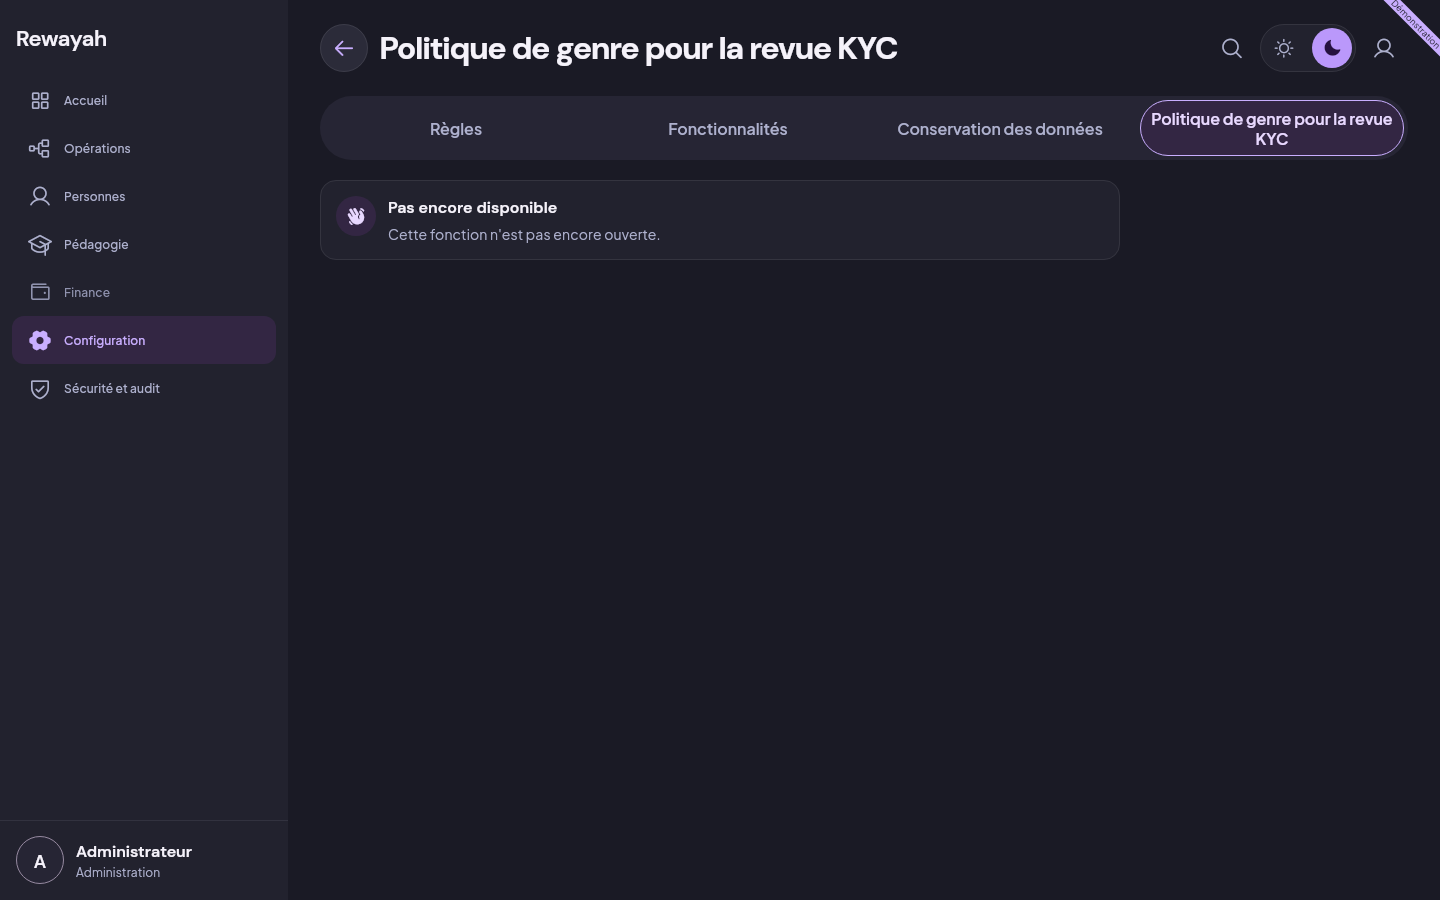
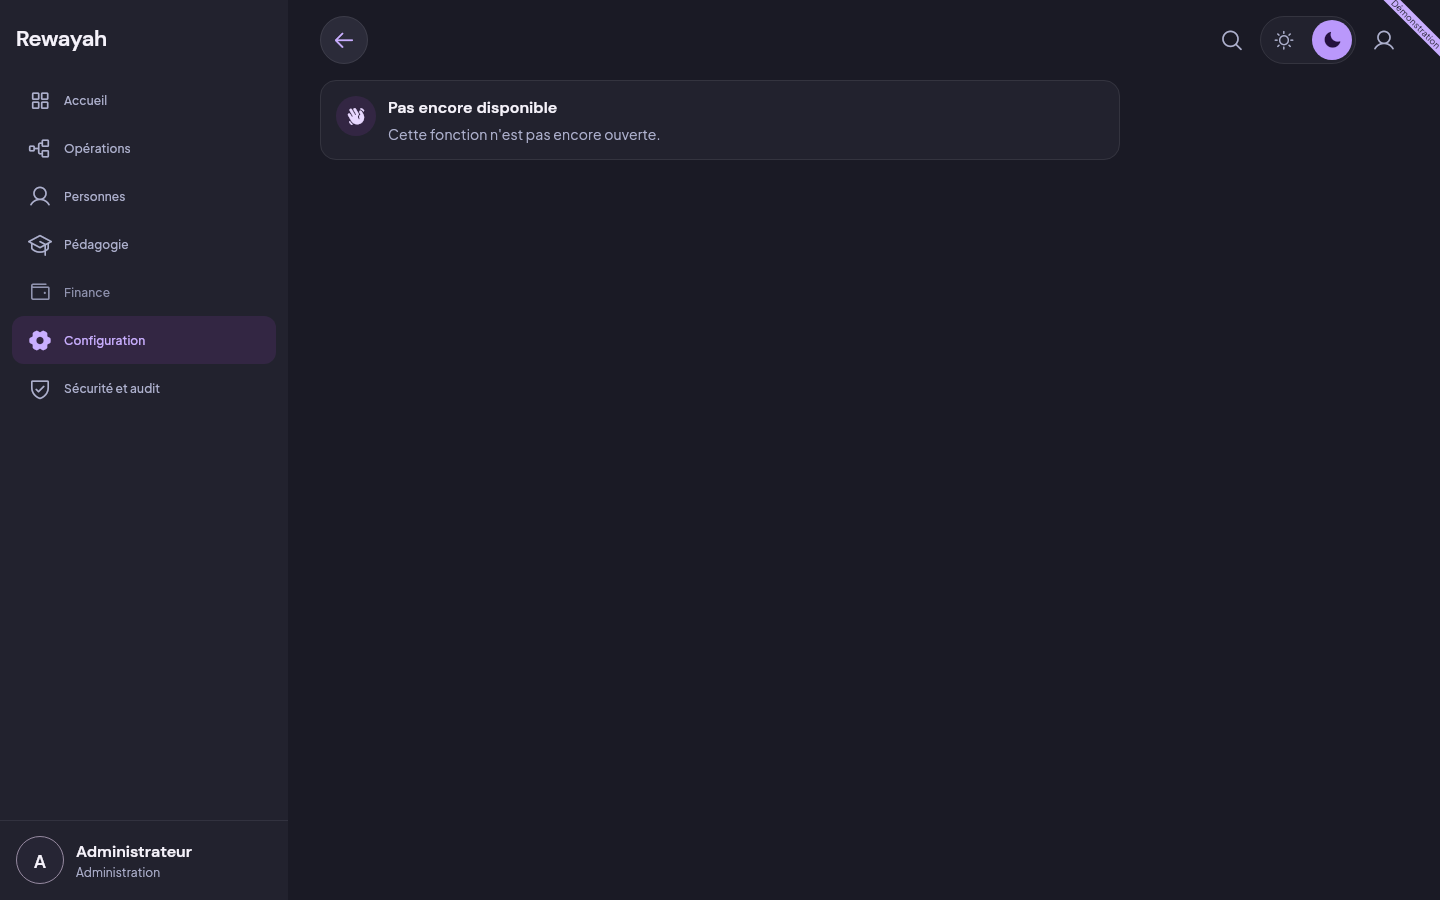
AD-M2-CAPT : 96 captures HL-A-5 refaites (ecran 3 distinct de la fiche, portail apres refus, ecran 16 sans repere), 6 captures de la revue en production, ad9_14 a 1440 ; notes de recette
Claude-Session: https://claude.ai/code/session_01B8we8bPK1a6aYoBmRntpd8

Changed region(s): [[0.2188, 0.0311, 0.625, 0.1556], [0.625, 0.0, 1.0, 0.1867], [0.2188, 0.2178, 0.4688, 0.28]]

diff --git a/test/capture/ad_m2_production_capture_test.dart b/test/capture/ad_m2_production_capture_test.dart
@@ -7,7 +7,7 @@
 // Meme montage que `test/features/dossiers_admin_test.dart` (ServiceValidation
 // factice sous `surchargeRevueDossiersProduction`), sans demonstration. Saute
 // sans CAPTURE_DIR (voir `test/capture/LISEZ-MOI.md`). Nommage :
-// ad_m2_production_<revue|piece>_<LxH>_<light|dark>.png.
+// ad_m2_production_<LxH>_<light|dark>.png.
 
 import 'package:flutter/material.dart';
 import 'package:flutter_riverpod/misc.dart' show Override;
@@ -17,7 +17,6 @@ import 'package:rewayah_academy/core/domain/enums.dart';
 import 'package:rewayah_academy/core/dossier/service_validation.dart';
 import 'package:rewayah_academy/core/i18n/strings.g.dart';
 import 'package:rewayah_academy/features/admin_dossiers/dossiers_page.dart';
-import 'package:rewayah_academy/features/admin_dossiers/visionneuse_piece.dart';
 
 import '../support/dossiers_production.dart';
 import '../support/harnais.dart';
@@ -74,37 +73,19 @@ void main() {
           );
           await stabiliser(tester);
 
-          final String suffixe = mode == ThemeMode.light ? 'light' : 'dark';
-          // La piece : l'apercu est ferme, la visionneuse le dit.
-          await tester.ensureVisible(find.text(t.dossiers.revue.voirPiece));
-          await stabiliser(tester);
-          await tester.tap(find.text(t.dossiers.revue.voirPiece));
-          await tester.runAsync(
-            () => Future<void>.delayed(const Duration(milliseconds: 100)),
-          );
-          await stabiliser(tester);
+          // Depuis AD-M3-PROD, la piece et la decision sont fermees : chaque
+          // phrase est dite une fois, aucun Voir la piece, Refuser ni Valider.
           expect(find.text(t.dossiers.revue.pieceIndisponible), findsOneWidget);
-          debugPrint(
-            'PNG ${await capturer(tester, 'ad_m2_production_piece_${nom}_$suffixe')}',
-          );
-
-          // Piece vue (ou tentee) : la decision, dite une fois, sans Refuser
-          // ni Valider grises.
-          await tester.tap(
-            find.descendant(
-              of: find.byType(VisionneusePiece),
-              matching: find.text(t.commun.fermer),
-            ),
-          );
-          await stabiliser(tester);
           expect(
             find.text(t.dossiers.revue.etats.decisionIndisponible),
             findsOneWidget,
           );
+          expect(find.text(t.dossiers.revue.voirPiece), findsNothing);
           expect(find.text(t.dossiers.refuser), findsNothing);
           expect(find.text(t.dossiers.approuver), findsNothing);
+          final String suffixe = mode == ThemeMode.light ? 'light' : 'dark';
           debugPrint(
-            'PNG ${await capturer(tester, 'ad_m2_production_revue_${nom}_$suffixe')}',
+            'PNG ${await capturer(tester, 'ad_m2_production_${nom}_$suffixe')}',
           );
         });
       }

diff --git a/docs/current/AD-NETTOYAGE-2_ET_AD-M2-CAPT.md b/docs/current/AD-NETTOYAGE-2_ET_AD-M2-CAPT.md
@@ -1,0 +1,38 @@
+# AD-NETTOYAGE-2 et AD-M2-CAPT : notes de recette (poste admin, 04/10/2026)
+
+Base : `corrections/c1-lib` (c1595c0e, porte AD-NETTOYAGE), puis fusion de `corrections/c1-integ2`
+(qui contient c1-lib et AD-M3-PROD, AD-M4-DEFIL). `revue-directeur-2026-10` ne contient pas c1595c0e.
+
+## AD-NETTOYAGE-2 : fait
+m6, m7, m8, m11, n3 (portail /attente) ; m9, m10 (file, phrase de validation elidee) ; m12 (raison de 02B en encre douce) ;
+m14, n12 (GroupeReglages) ; n1 (`?demo=enseignant` avec `dossier`, alias `tuteur` gardé) ; n6 (masquage du stockage :
+modele, parametres, requete, extra, contextes) ; n7 (seuils de BottomSheet) ; n8 (pas de renvoi apres succes,
+action Fermer sur DecisionReussie, pas de reentrance) ; n10 (pont de demonstration ferme) ; n11 (helper de test
+rend un booleen ; le test de la fiche sans piece l'asserte) ; commentaire de `decider()`.
+PageShell defilant : deja traite par AD-M4-DEFIL (fusion) ; ma version a ete abandonnee au profit de la leur.
+
+## Non tranche (decision du directeur ou hors perimetre)
+Pastille « En attente » de Comptes, m4, m5, n4, m13 (decision), n9 (supabase/), n5 traite cote capture seulement
+(ecran 16 sans repere), n13 (rien a corriger). K-47 : rectifier `01_RELEVE.md` pour la legende de la file (m9) : fichier de pilotage, non touche.
+
+## Choix a signaler
+- m8 : colonne centree a 760 comme demande par la revue ; sur bureau le titre de la page reste au bord de la gouttiere
+  (a gauche) alors que la carte est centree : decalage visible, a juger.
+- n8 : une decision reussie n'est plus renvoyee par `envoyer`.
+
+## AD-M2-CAPT
+Captures dans `docs/current/captures/ad-m2-capt/` (96 HL-A-5 = 16 ecrans x 6 + 6 production + 2 ad9_14).
+- Ecran 3 : la carte Vérifications est deja a l'ecran quand on touche le lien (le lien ne fait que poser le focus) ;
+  la capture 3 est prise en mode de focus « clavier » : elle differe de la fiche par l'anneau de focus sur la premiere case
+  (difference mince sur telephone). Hash differents pour les 6 paires (voir ci-dessous).
+- portail_apres_refus_* : refaits (hash differents des anciens a8dfcb3, ex. telephone clair 6249d9bd -> c23e7f34).
+- Ecran 16 capture sans le repere « Demonstration » (n5).
+- Production : `test/capture/ad_m2_production_capture_test.dart` (390, 1440, 320 clair et sombre).
+- ad9_14_indisponible_1440 : refait (clair et sombre).
+Comptes a aligner dans HL-A-5.md, AD-11.md, AD-RC.md l.36 (fichiers de pilotage, non touches) : 16 ecrans, 96 PNG.
+telephone clair fiche=d322f08c2f64 verif=7ce836c1a3b8
+telephone sombre fiche=ca073717a260 verif=9cd7de7f29a4
+tablette clair fiche=e6c82c8d8717 verif=9c2a4a834b4f
+tablette sombre fiche=01483734caa9 verif=ffa22f4d9c89
+ordinateur clair fiche=e90397fb9844 verif=448b071b36b3
+ordinateur sombre fiche=ac5da2c4dfa8 verif=1074c22c34a4
